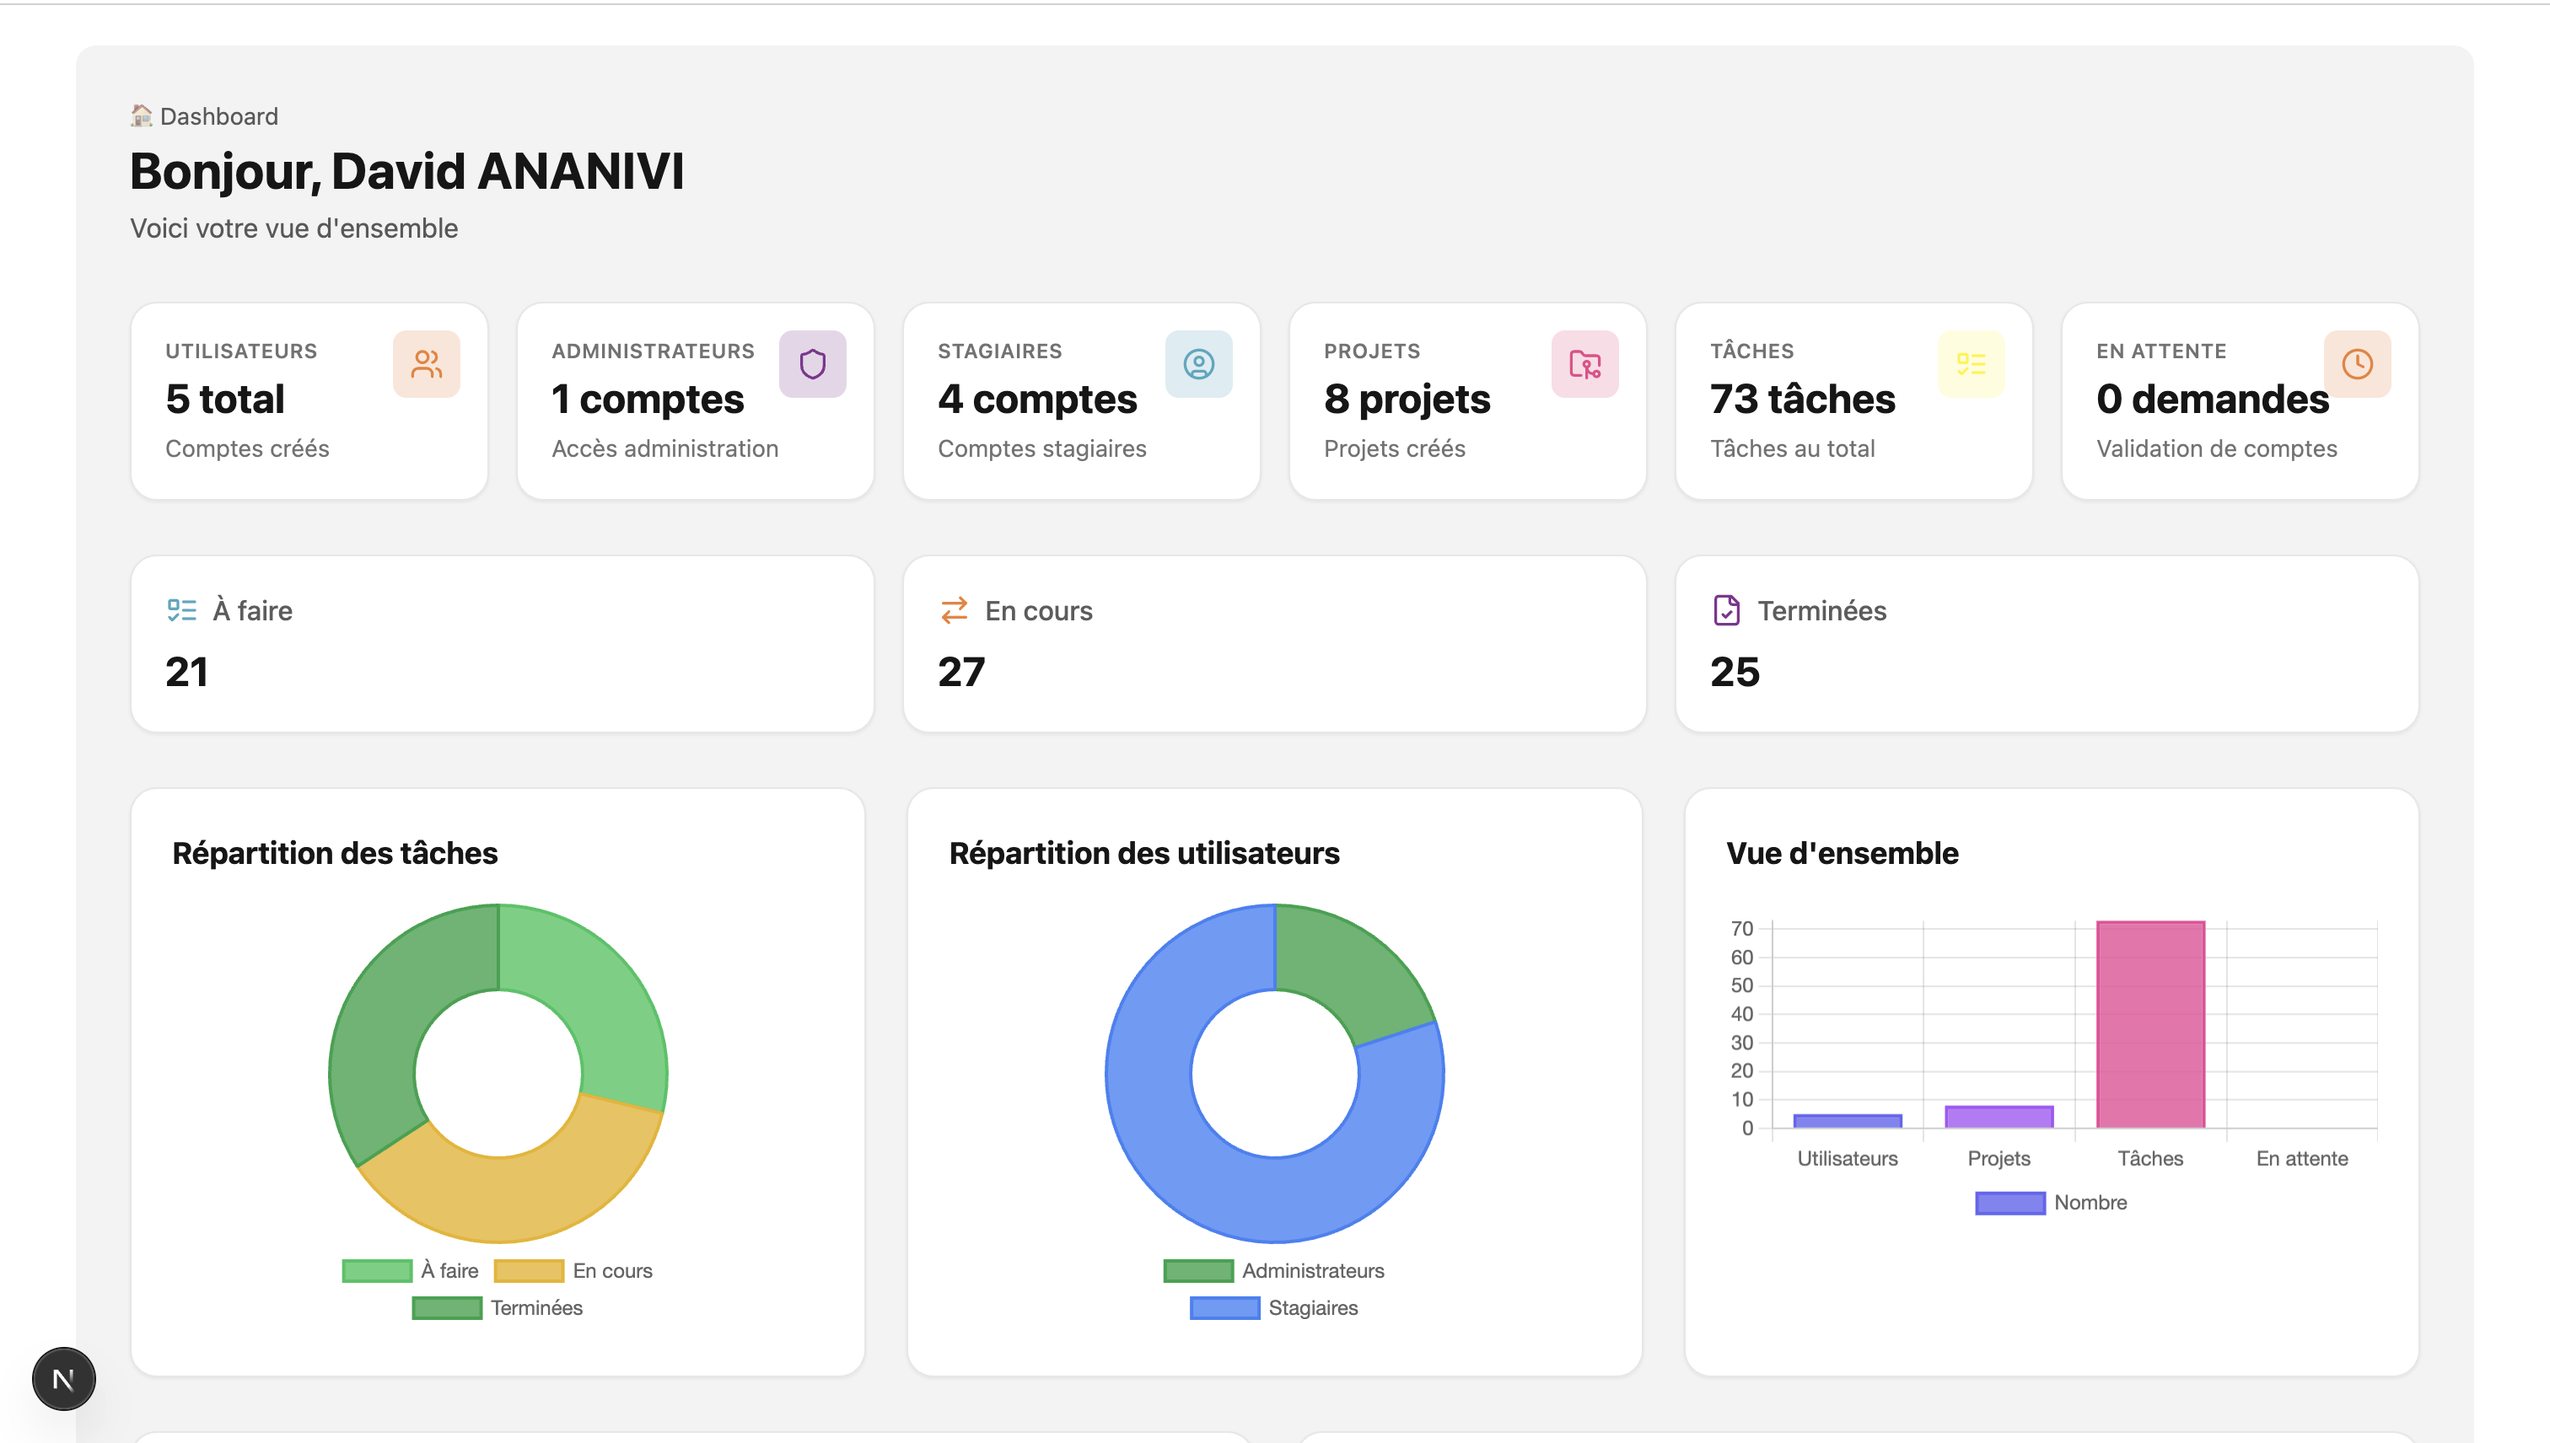
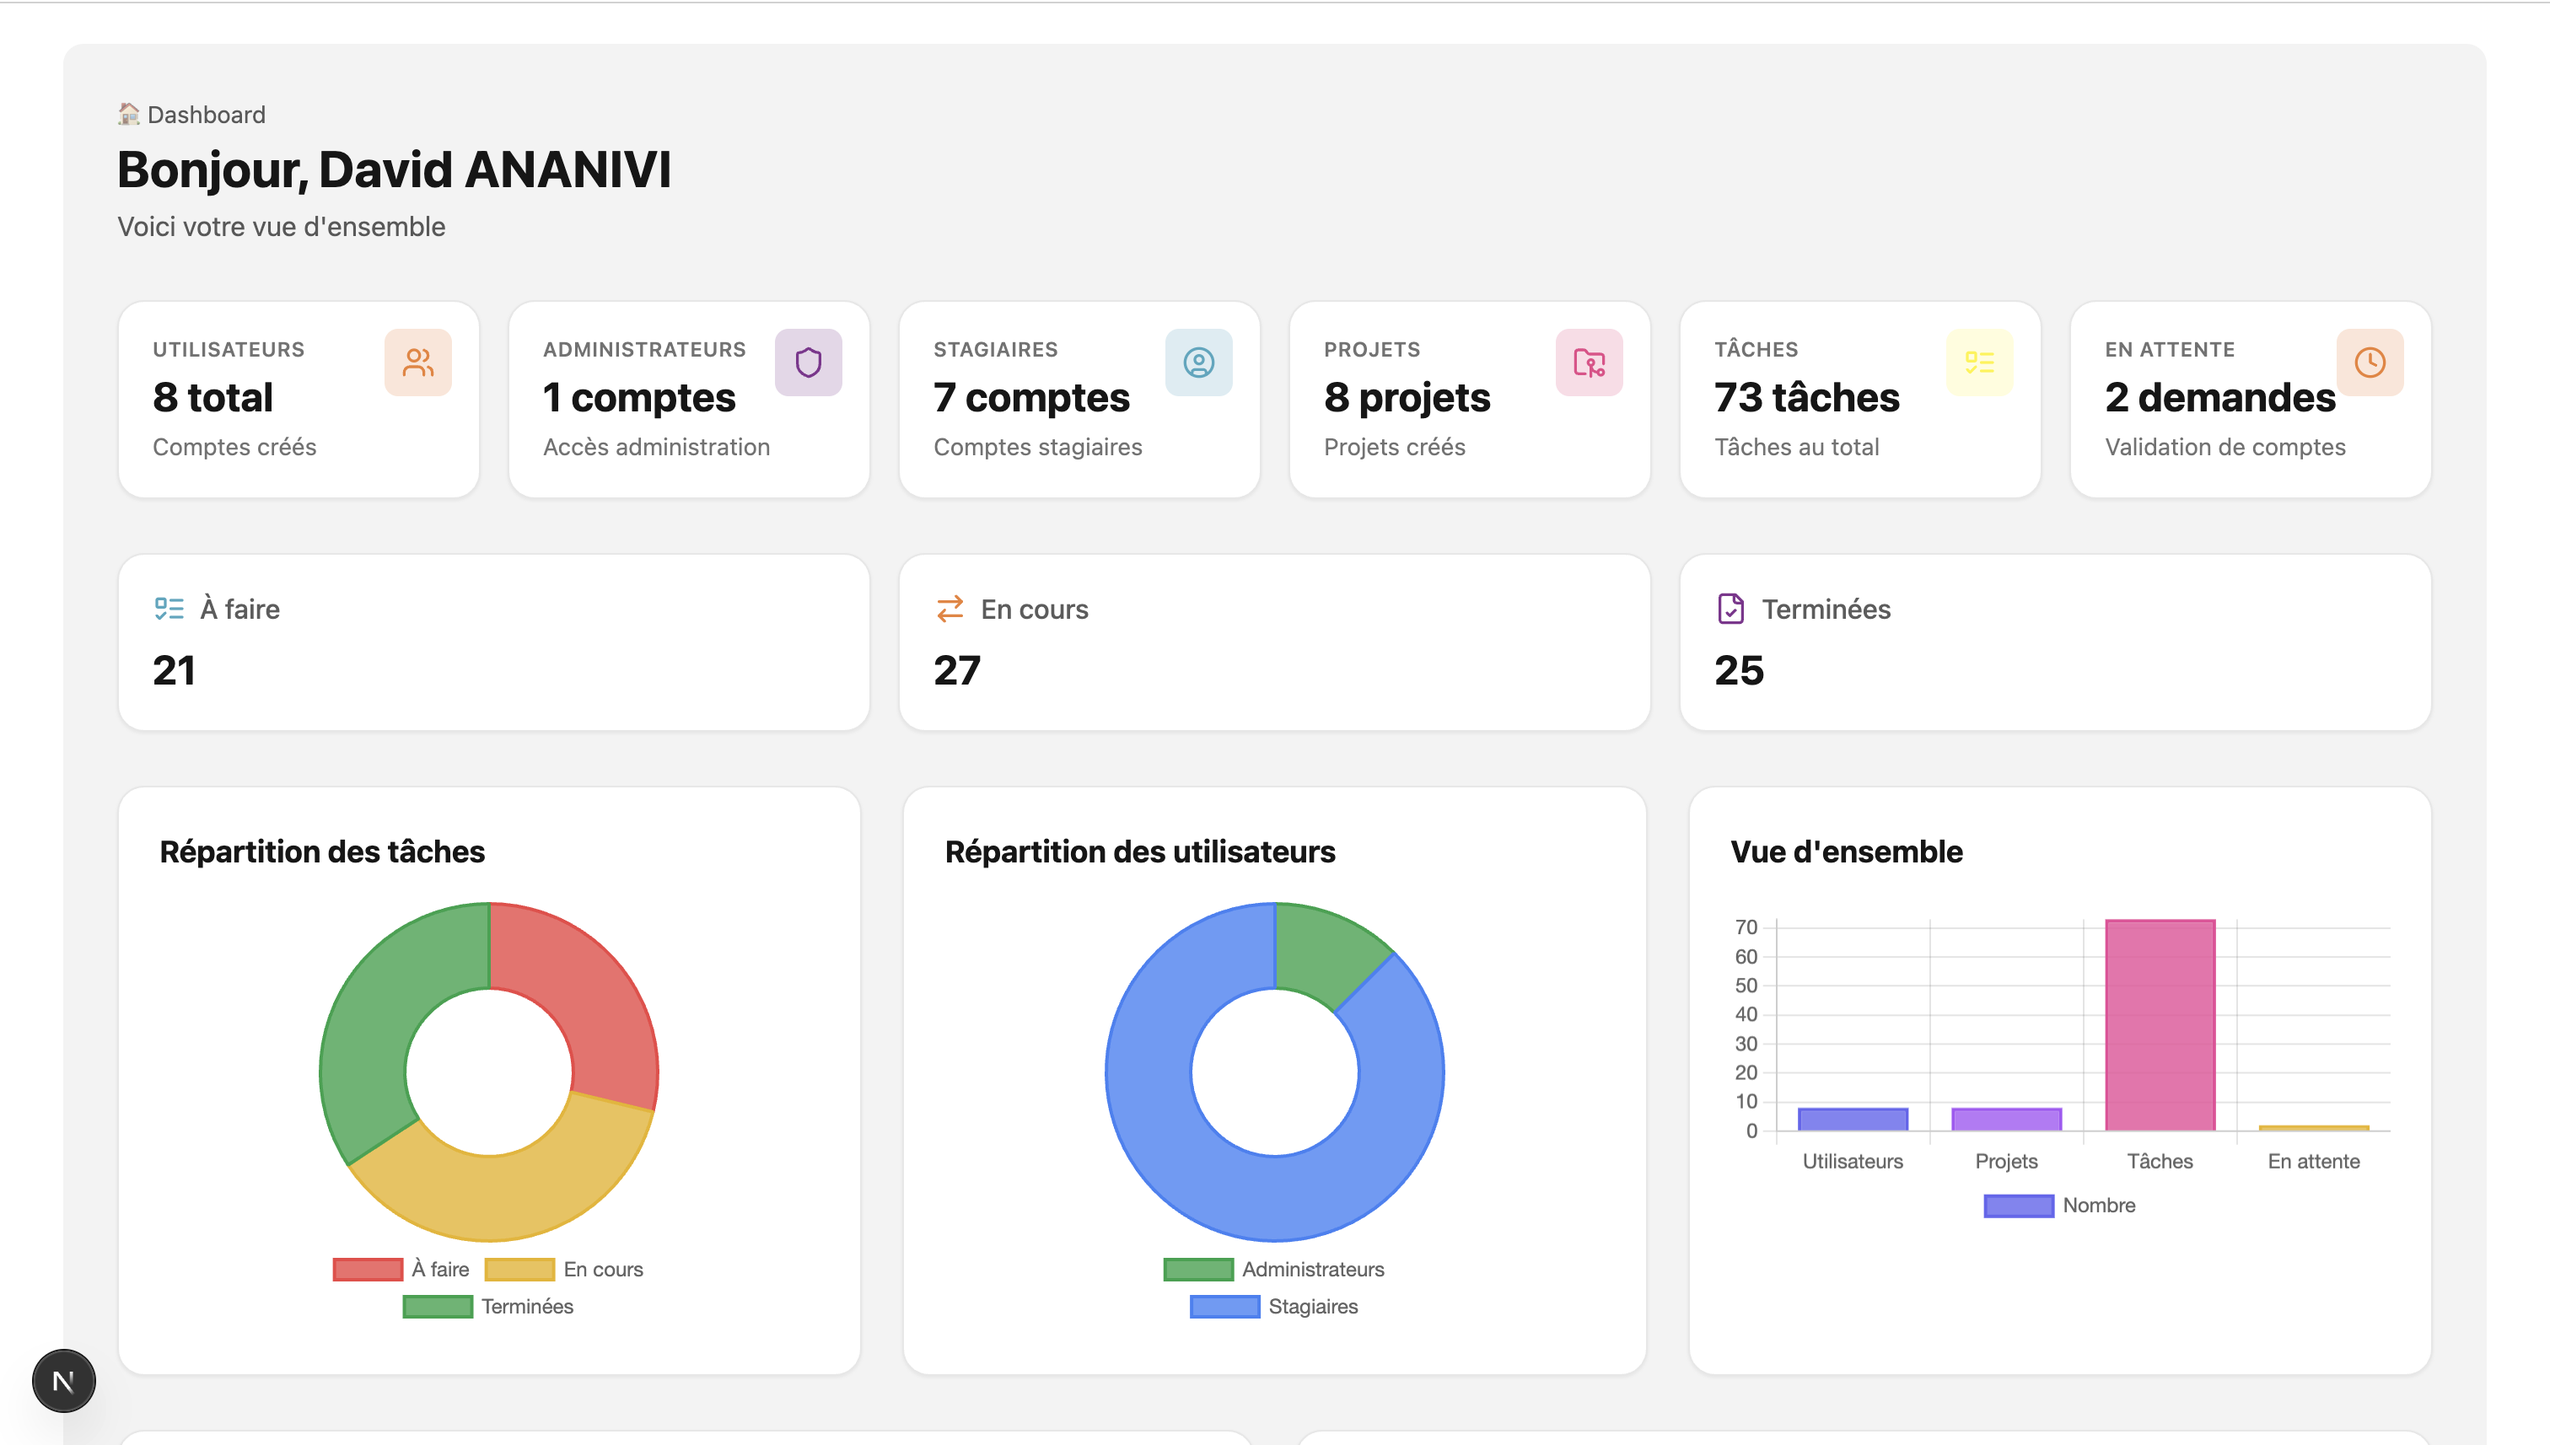
Update dashboard

diff --git a/app/dashboard/DashboardCharts.tsx b/app/dashboard/DashboardCharts.tsx
@@ -44,12 +44,12 @@ export default function DashboardCharts({ stats }: DashboardChartsProps) {
       {
         data: [stats.tasksToDo, stats.tasksInProgress, stats.tasksDone],
         backgroundColor: [
-          "rgba(34, 197, 94, 0.8)",   // info / To Do
+          "rgba(239, 68, 68, 0.8)",   // error
           "rgba(234, 179, 8, 0.8)",    // warning / In Progress
           "rgba(22, 163, 74, 0.8)",    // success / Done
         ],
         borderColor: [
-          "rgb(34, 197, 94)",
+          "rgb(239, 68, 68)",
           "rgb(234, 179, 8)",
           "rgb(22, 163, 74)",
         ],
